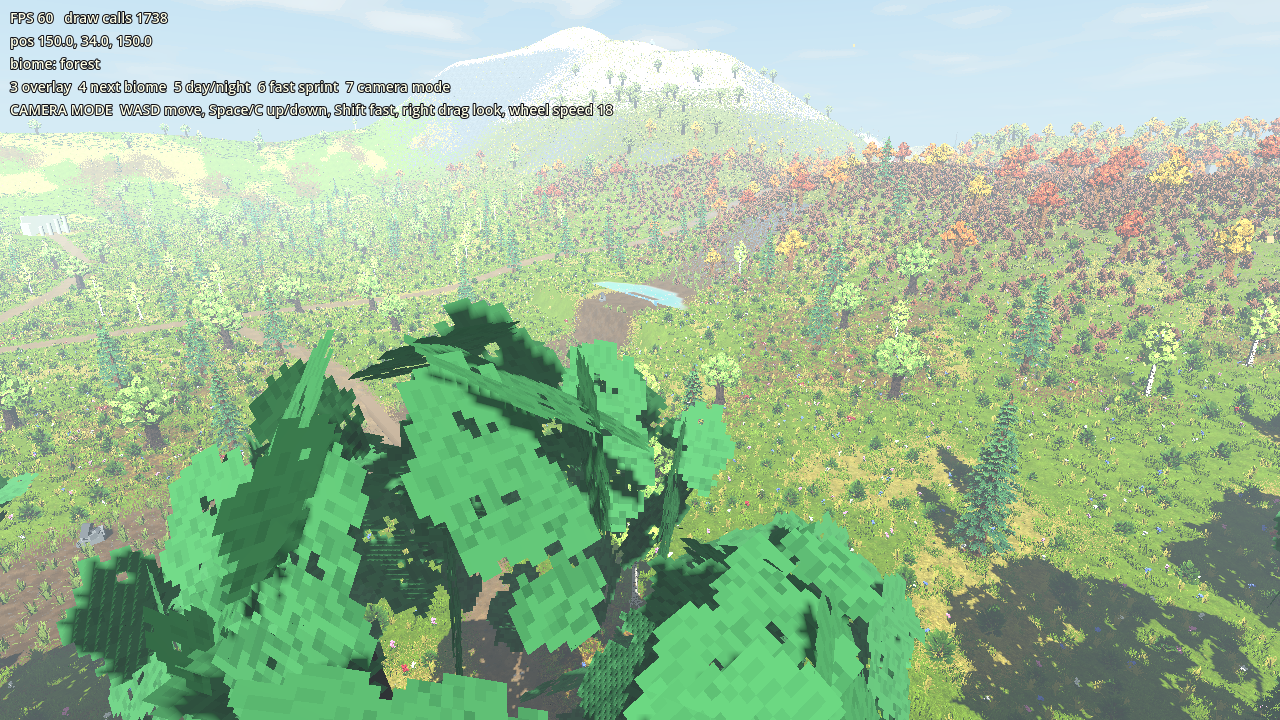
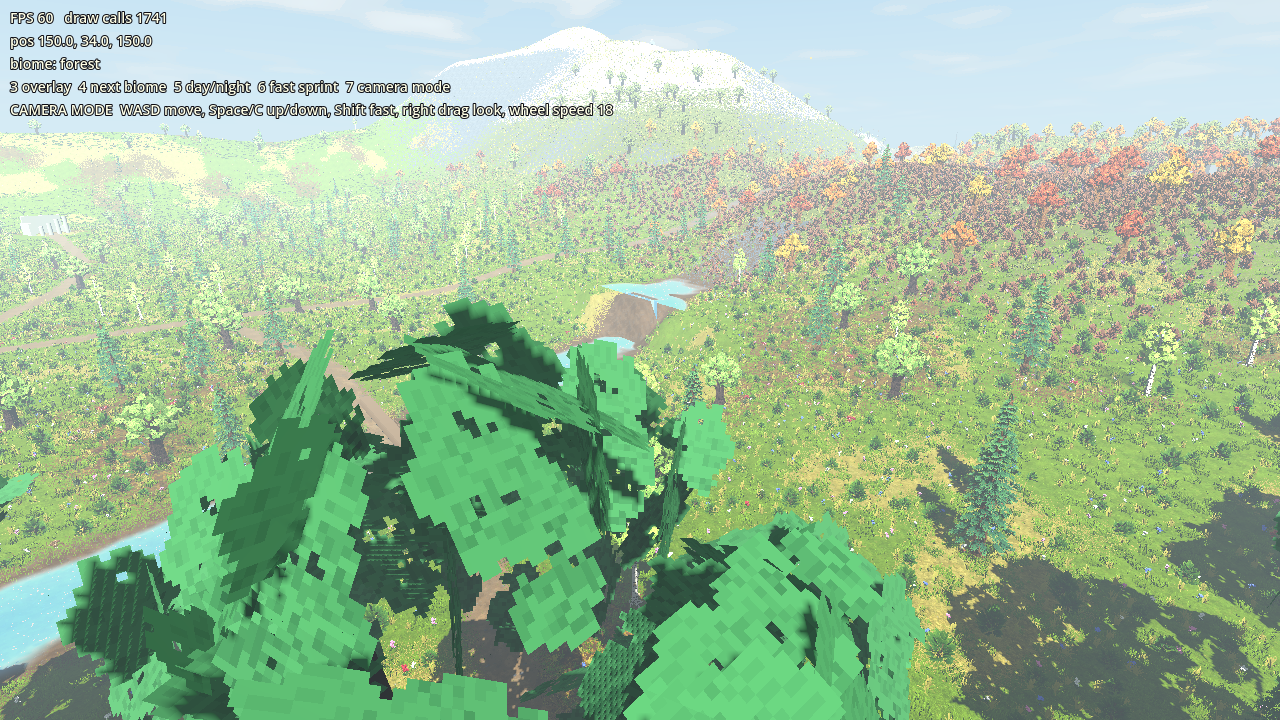
smooth batch 4: keep the water through the smoothing
Re-carve water beds after the blur, smooth bowl beds, bank floors only inside the water's own rect,
and a rugged cliff band where the river meets the upper pool at the waterfall. BAKE CHECK: leaks 0,
steep 0, path grade 16.7 deg, shore step 0.30 m. River 12% wet (11% before smoothing).

diff --git a/docs/world_build_notes.md b/docs/world_build_notes.md
@@ -221,4 +221,6 @@ Measured with `--perf=4` (desktop, 1280 × 720, standing at each biome centre, c
 - **Soft shores.** Each water rect has a wet mask with a noisy 6 ± 4 m margin, so there are no straight lines. Sides that meet the edge ring or another water rect have no margin. A chamfer distance transform shapes a 1:8 shelf under the water, down to 1.4 m deep. On land, a bank rises from the waterline. Within 12 m of the water the land rises at most 0.3 m per 2 m cell, and the first wet cells are raised to meet it. Both sides stay at least 0.1 m clear of the waterline.
 - **Swamp path.** Through the water it now blends up to `level + 0.35` over 2.5 to 7 m, instead of a raised strip with square edges.
 - **Water shader.** The depth map is 2 px per metre and sampled in smooth world coordinates. The colour is a smooth shallow-to-deep gradient. Foam is a soft half-strength band, and alpha fades out over the first 22 cm of depth, which hides the triangle edge at the waterline. There are fewer sparkles and smaller waves.
-- **BAKE CHECK** after smoothing: 0 leaks, path grade 16.7° (target 18°), shore step 0.30 m (target 0.3). 31 cells steeper than 30° remain where the river (level 3) meets the upper pool (level 10) beside the waterfall. **Known issue:** the blur fills the narrow riverbed and the swamp's shallow dips. The river is down from 11% to 2% of its rect underwater, and the swamp from 26% to 5%. The beds need to be re-carved after the blur.
+- **Water kept through the smoothing.** Cells that were under water before the blur get their carved height back afterwards. Each water bed is a smooth bowl: at most 0.3 m per 2 m cell, and 1.4 m deep. The river covers 12% of its rect (11% before smoothing). The swamp covers 10% (26% before), because tiny puddles now get proper shores and merge into the land. Dry land only has to stay above a water level inside that water's rect, or within 4 m of the water. Further out the bank blends back into the land.
+- **Waterfall cliff line.** The river (3 m) meets the upper pool (10 m) along x = 214. A 16 × 54 m band there is `rugged` (37°): the step up to the upper plateau. Only the waterfall's rectangle (12 × 28 m) is fully exempt. Rect sides shared with other water are open (no shore margin) only at the waterfall.
+- **BAKE CHECK** after smoothing: 0 leaks, 0 cells over 30° outside the waterfall or rugged ground, path grade 16.7° (target 18°), shore step 0.30 m (target 0.3).
